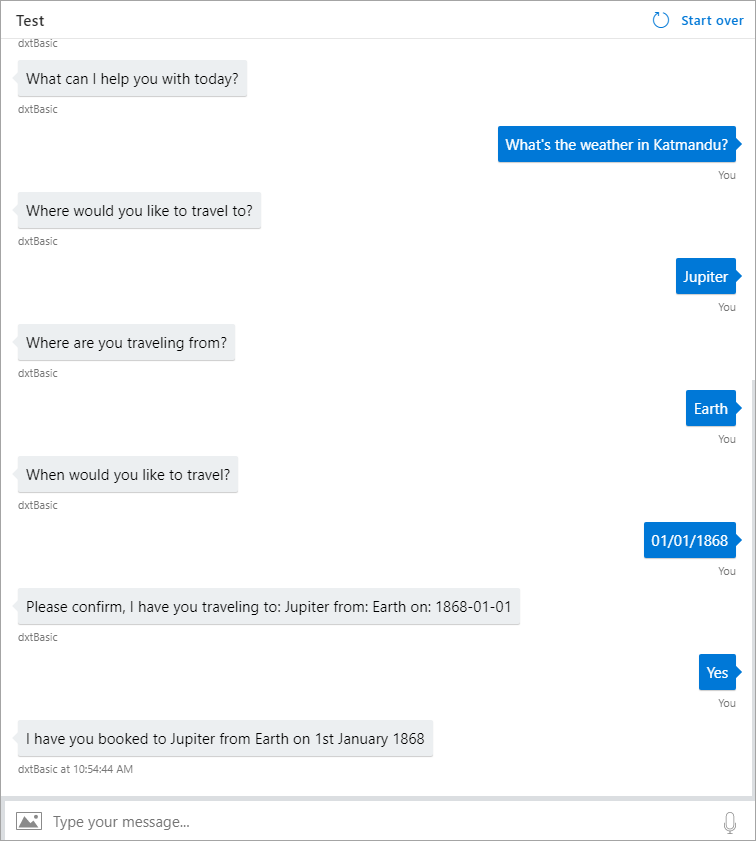
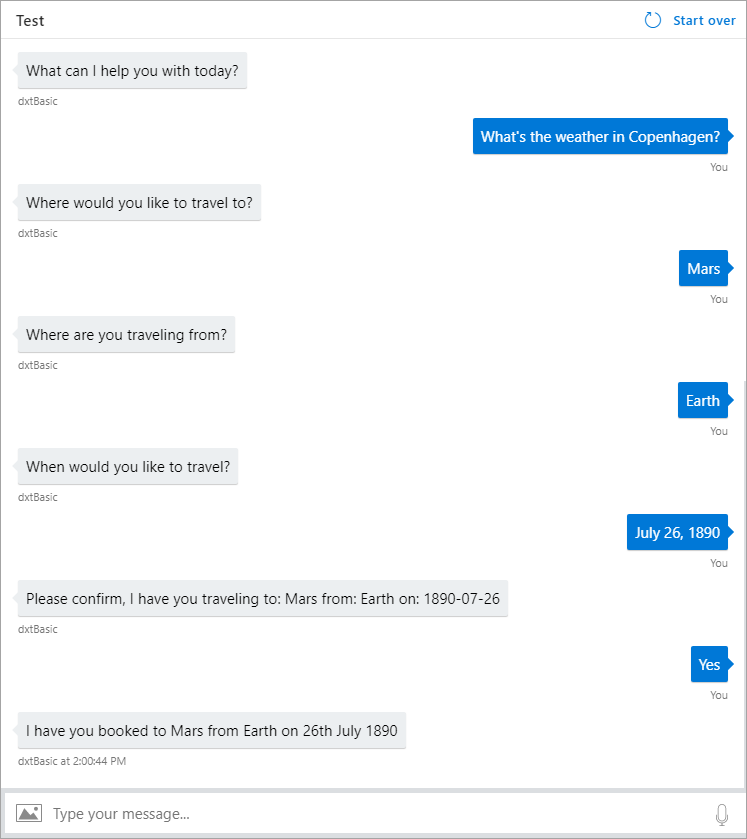
new screenshots and text

diff --git a/docs/skills/mva22-hello-world.md b/docs/skills/mva22-hello-world.md
@@ -30,23 +30,23 @@ To create a bot using the Azure Bot Service, first open the [Microsoft Azure Por
 
 Enter a name for your bot. The bot service uses the bot name as the default name for the resource group name and app name.
 
-Specify your subscription plan, location, app name, and the bot template you want to use, and then click `Create`. To create a simple single-dialog bot that echoes back the user input, use the `Basic` template.
+Specify your subscription plan, location, app name, and the bot template you want to use, and then click `Create`. To create a simple guided conversation bot that pretends to book a trip for you, use the `Basic` template.
 
 ![Create Pane](../media/images/mva22_create.png)
 
-It may take a few minutes to provision and initialize your bot. When the process is complete, you can test your bot. If it's not listed under `Recent resources`, click on `See all your resources`.
+It may take a while to provision and initialize your bot. When the process is complete, you'll be taken to a screen that lists your resource. From here, you can test your bot. If it's not listed under `Recent resources`, click on `See all your resources`.
 
 ![Resource pane](../media/images/mva22_resource_pane.png)
 
-In the `All resources` pane, you should see your skill named listed. There will probably be more than one entry on the list. Click on the one whose type is `Web App Bot`.
+In the `All resources` pane, you should see your skill name listed. There will probably be more than one entry on the list. Click on the one whose type is `Web App Bot`.
 
 ![Response pane](../media/images/mva22_response_pane.png)
 
-This will bring up a summary screen showing the options for your bot. The screenshot below highlights the two testing options, `Test in Web Chat` and `Test your bot online in Web Chat`. You can click on either of them. They take you to the same test screen.
+This will bring up a summary screen showing the options for your bot. The screenshot below highlights the two testing options, `Test in Web Chat` and `Test your bot online in Web Chat`. You can click on either one. They both take you to the same test screen.
 
 ![Bot summary screen](../media/images/mva22_bot_summary.png)
 
-In the test screen, try typing something into the `Type your message` prompt at the bottom of the screen. No matter what you enter, you'll see the test screen shown below.
+In the test screen, try typing something into the `Type your message` prompt at the bottom of the screen. No matter what you enter, you'll see the screen shown below.
 
 ![Test Bot](../media/images/mva22_test_02.png)
 
@@ -56,109 +56,29 @@ No matter what you respond to the `What can I help you with today?` query, the t
 
 ## Step 2 - Explore the code
 
-The mva-hello-world bot uses .NET C# code that is part of the Basic bot template. To view the code behind the bot, click `Build` and then `Open online code editor` to open the **App Service Editor**.
+The dxtBasic bot uses .NET C# code that is part of the Basic bot template. To view the code behind the bot:
 
-![Open Code Editor](../media/images/mva22_open_code_editor.png)
+1. Click `Build` under `Bot management`.
 
-The code that handles the bot's response to the message you type can be found in the `MessagesController.cs` and `EchoDialog.cs` modules. Expand the **Controllers** and **Dialogs** trees under WWWROOT in the **App Service Editor** to view the code.
+1. For purposes of this example, click on the `Open online code editor` to open the `App Service Editor`.
 
-![Code Modules](../media/images/mva22_modules.png)
+1. If you'd prefer to work in a local editor, you can click on `Download Bot source code` in the `Build` section, but this example won't cover that.
 
-The Post method in `MessagesController.cs` invokes an instance of the `EchoDialog` class when a user types a message:
+![Find the code](../media/images/mva22_open_the_code.png)
 
-``` C#
-    public virtual async Task<HttpResponseMessage> Post([FromBody] Activity activity)
-    {
-         // check if activity is of type message
-        if (activity != null && activity.GetActivityType() == ActivityTypes.Message)
-        {
-            await Conversation.SendAsync(activity, () => new EchoDialog());
-        }
-        else
-        {
-            HandleSystemMessage(activity);
-        }
-        return new HttpResponseMessage(System.Net.HttpStatusCode.Accepted);
-    }
-```
+When the online editor opens, it will display the readme file (readme.md).
 
-The `EchoDialog` class contains the code that creates the response:
+![Online editor readme example](../media/images/mva22_editor_readme.png)
 
-``` C#
-    public class EchoDialog : IDialog<object>
-    {
-        protected int count = 1;
+As you can see by looking at the sidebar, there is C# code in `Bots`, `Controllers`, and `Dialogs`. For this example, the bot's confirmation output line has been changed in `MainDialog.cs`.
 
-        public async Task StartAsync(IDialogContext context)
-        {
-            context.Wait(MessageReceivedAsync);
-        }
-
-        public async Task MessageReceivedAsync(IDialogContext context, IAwaitable<IMessageActivity> argument)
-        {
-            var message = await argument;
-
-            if (message.Text == "reset")
-            {
-                PromptDialog.Confirm(
-                    context,
-                    AfterResetAsync,
-                    "Are you sure you want to reset the count?",
-                    "Didn't get that!",
-                    promptStyle: PromptStyle.Auto);
-            }
-            else
-            {
-                await context.PostAsync($"{this.count++}: You said {message.Text}");
-                context.Wait(MessageReceivedAsync);
-            }
-        }
-
-        public async Task AfterResetAsync(IDialogContext context, IAwaitable<bool> argument)
-        {
-            var confirm = await argument;
-            if (confirm)
-            {
-                this.count = 1;
-                await context.PostAsync("Reset count.");
-            }
-            else
-            {
-                await context.PostAsync("Did not reset count.");
-            }
-            context.Wait(MessageReceivedAsync);
-        }
-    }
-```
-
-You can revise the code to customize the response. For example, you could revise the `EchoDialog` class to display how many characters are in the message:
-
-``` C#
-    public class EchoDialog : IDialog<object>
-    {
-        public async Task StartAsync(IDialogContext context)
-        {
-            context.Wait(MessageReceivedAsync);
-        }
-
-        public async Task MessageReceivedAsync(IDialogContext context, IAwaitable<IMessageActivity> argument)
-        {
-            var message = await argument;
-            int msgLength = (message.Text ?? string.Empty).Length;
-
-            await context.PostAsync("'" + message.Text + "'" + " has " + msgLength + " characters.");
-            context.Wait(MessageReceivedAsync);
-        }
-    }
-```
-
-For the changes to take effect, you need to redeploy the bot. In the **App Service Editor**, click the `Open Console` icon to open the **Console** window, and then enter `build.cmd`.
+For the changes to take effect, you need to redeploy the bot. In the `App Service Editor`, click the `Open Console` icon to open the Console window, and then enter `build.cmd`.
 
 ![Console Window](../media/images/mva22_console_window.png)
 
-Once the redeployment is complete, you can return to the **Test** pane to test your bot.
+Once the redeployment is complete, you can return to the `Test` pane to test your bot. In this case, after going through the guided conversation again, you'll see a different confirmation line output.
 
-![Revised Bot](../media/images/mva22_revised_bot.png)
+![New booking confirmation message](../media/images/mva22_sample_trip_02.png)
 
 ## Step 3 - Connect your Azure Bot to the Cortana Channel
 
